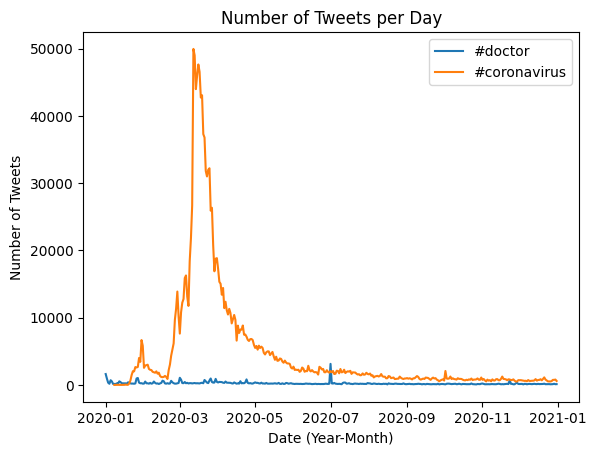
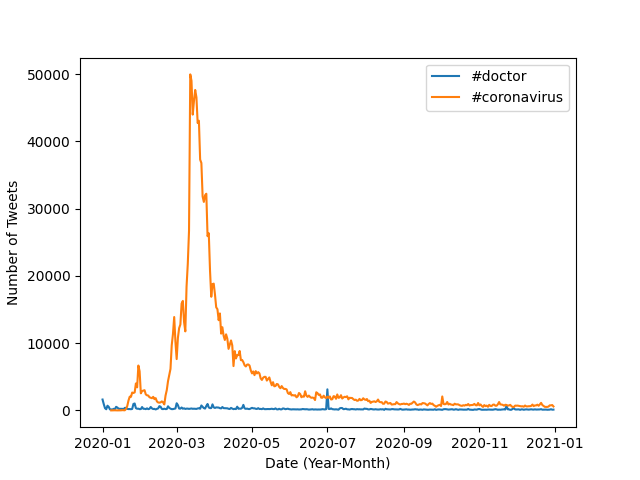
update files

Changed region(s): [[0.0, 0.0, 0.9664, 0.9846]]

diff --git a/src/alternative_reduce.py b/src/alternative_reduce.py
@@ -28,7 +28,6 @@ from datetime import datetime
 # load each of the paths
 total = defaultdict(lambda: Counter())
 path = glob.glob('outputs/geoTwitter*.zip*')
-
 for p in path:
     with open(p) as f:
         tmp = json.load(f)
@@ -45,18 +44,18 @@ for p in path:
 fig, ax = plt.subplots()
 
 for key in args.keys:
-    days = sorted(total[key].keys())
-    vals = [sum(total[key][date]) for date in days]
-    day = [datetime.strptime(date, '%y-%m-%d') for date in days]
-    ax.plot(day, vals, label=key)
+    dates = sorted(total[key].keys())
+    values = [sum(total[key][date]) for date in dates]
+    days = [datetime.strptime(date, '%y-%m-%d') for date in dates]
+    ax.plot(days, values, label=key)
 
 ax.set_xlabel('Date (Year-Month)')
 ax.set_ylabel('Number of Tweets')
-ax.set_title('Number of Tweets per Day')
+#ax.set_title('Number of Tweets per Day')
 ax.legend()
 
 
-plt.savefig('figures/line_plot.png', bbox_inches='tight')
+plt.savefig('figures/line_plot.png')
 
 
 
